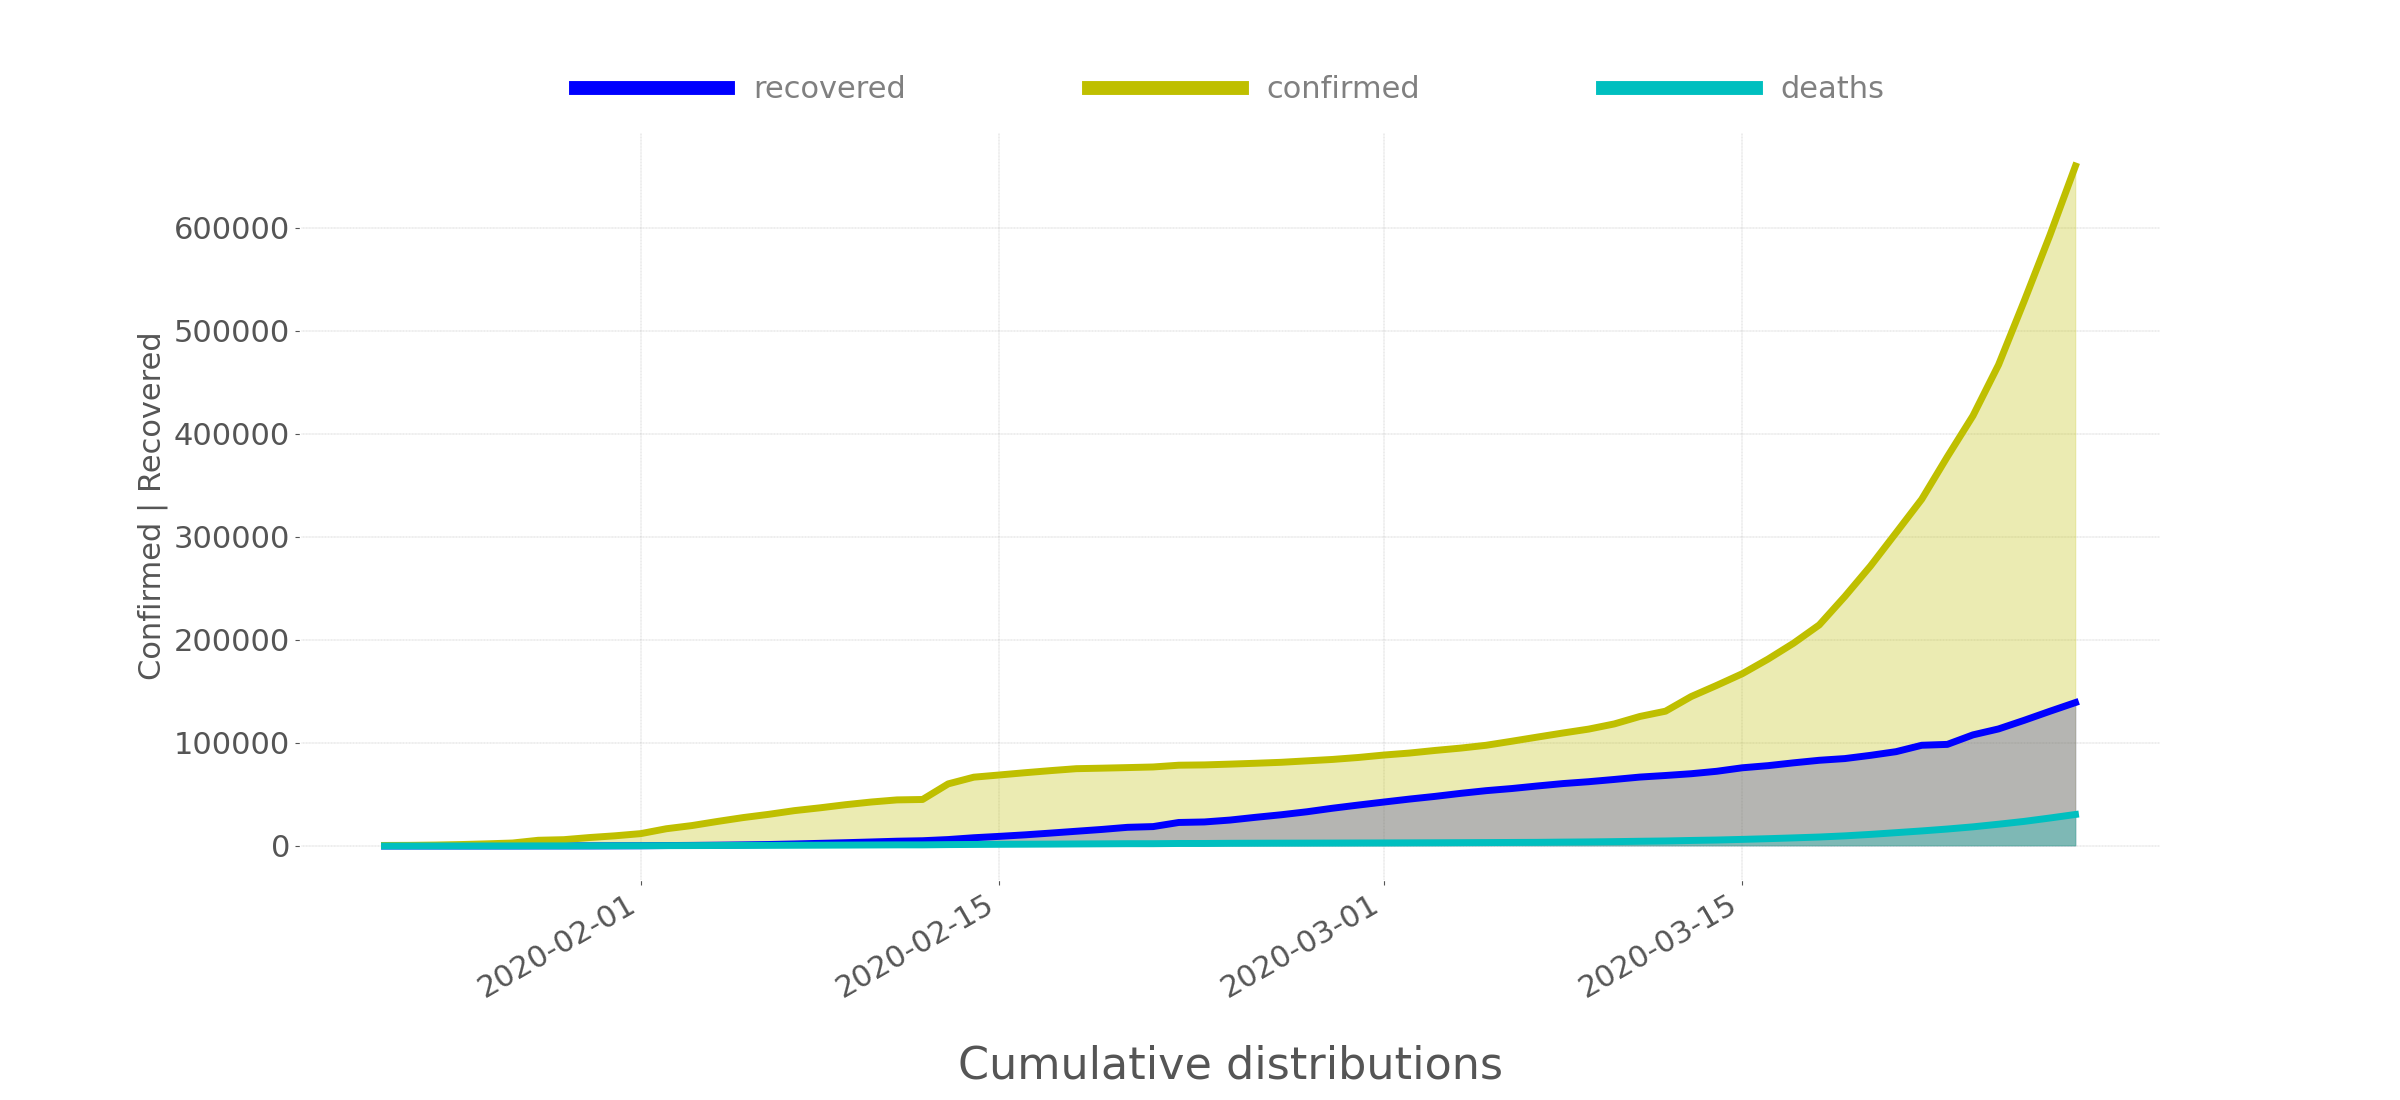
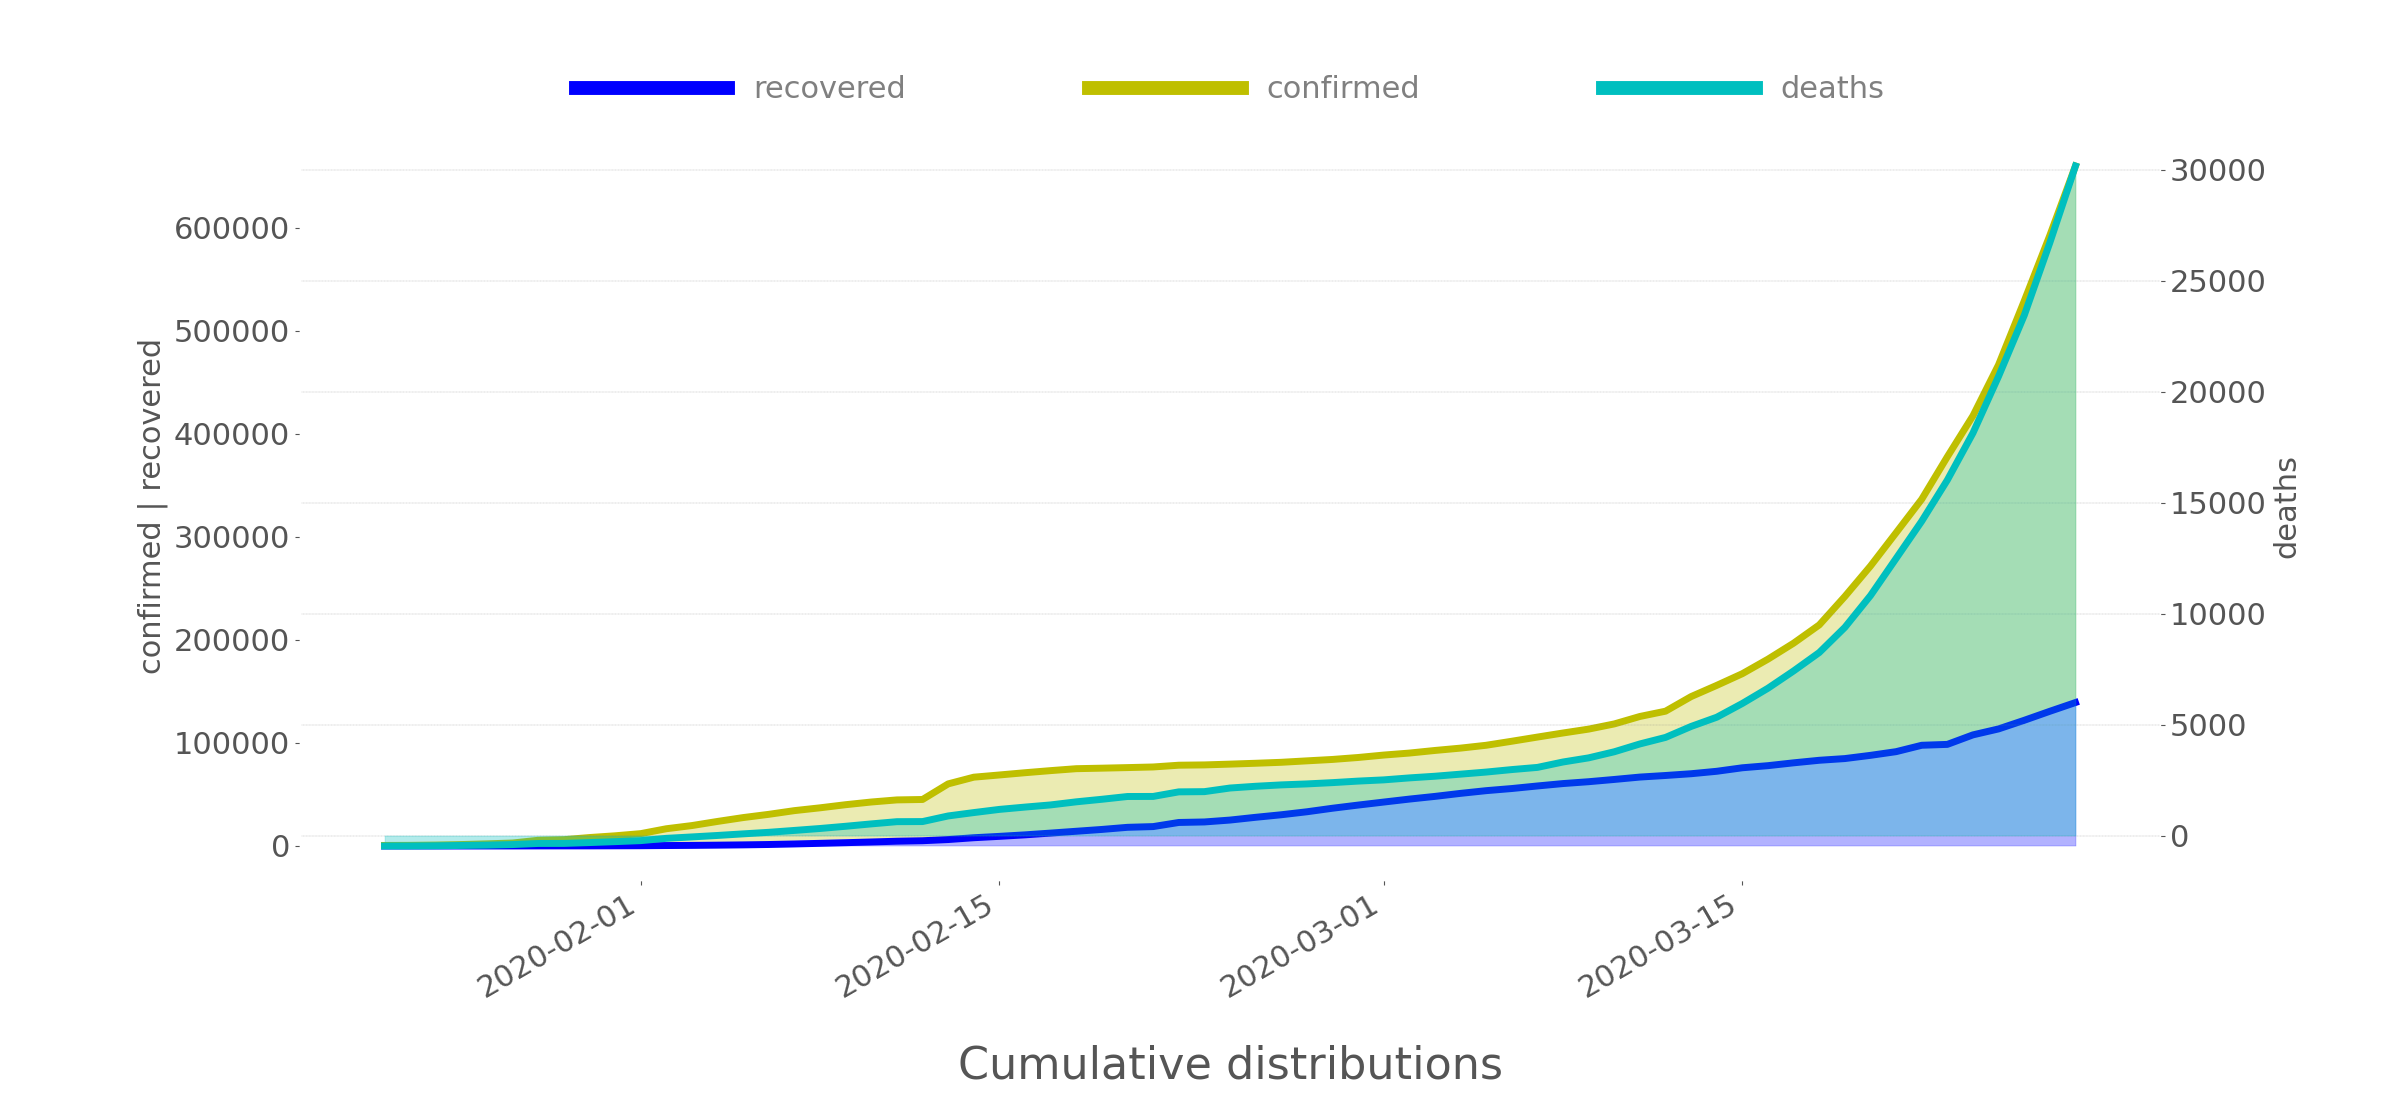
Fixed Plotting logistic curve

diff --git a/scripts/covid_by_ste/covid_analysis/plotter.py b/scripts/covid_by_ste/covid_analysis/plotter.py
@@ -46,7 +46,7 @@ class Plotter:
         fig, ax = plt.subplots(figsize=(24, 11))
         ax.set_xlabel('Cumulative distributions', fontsize=32)
         ax.xaxis.set_label_coords(0.5, -0.22)
-        ax.set_ylabel('Confirmed | Recovered', fontsize=22)
+        ax.set_ylabel('confirmed | recovered', fontsize=22)
         ax.set_facecolor("white")
         plt.xticks(fontsize=22)
         plt.yticks(fontsize=22)
@@ -54,13 +54,13 @@ class Plotter:
         grouped = data.groupby('date').sum()[STATUS_TYPES]
         for i, s in enumerate(STATUS_TYPES):
             tmp = ax
-            if s == 'Deaths':
+            if s == 'deaths':
                 ax2 = ax.twinx()
                 ax2.set_ylabel(s, fontsize=22)
                 tmp = ax2
             lines += tmp.plot(grouped.index, grouped[s], color=colors[i],
                               label=s, lw=5)
-            if s == 'Confirmed':
+            if s == 'confirmed':
                 tmp.fill_between(grouped[s].index, grouped[s],
                                  grouped[STATUS_TYPES[i - 1]],
                                  color=colors[i], alpha=0.3)
